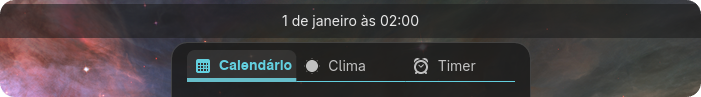
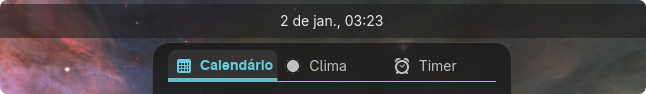
docs: update README for v0.1.1 architecture

diff --git a/README.md b/README.md
@@ -1,5 +1,3 @@
-# Time Plus - Cosmic Applet
-
 <p align="center">
   <picture>
     <source media="(prefers-color-scheme: dark)" srcset="com.system76.CosmicAppletTimePlusDark.svg">
@@ -7,6 +5,8 @@
     <img src="com.system76.CosmicAppletTimePlusLight.svg" alt="Time Plus Logo" width="120">
   </picture>
 </p>
+
+# Time Plus - Cosmic Applet
 
 **A feature-rich time applet for [COSMIC Desktop](https://github.com/pop-os/cosmic-epoch)** that extends the default time/date/calendar functionality with integrated weather information and pomodoro timer.
 
@@ -23,7 +23,7 @@
 
 ## 📸 Screenshots
 
-*All screenshots captured from **v0.1.0** running on COSMIC Desktop (Fedora Linux 43)*
+*All screenshots captured from **v0.1.1** running on COSMIC Desktop (Fedora Linux 43)*
 
 <details>
 <summary>🔲 Tab Navigation System</summary>
@@ -140,29 +140,47 @@ Located at the absolute top of the container.
 
 ## 🏗 Software Architecture
 
-### Central Orchestrator Pattern
+### Neutral Messenger + Orchestrator Pattern
 
-Time Plus follows a clean **Orchestrator + Specialist Modules** architecture:
+Time Plus follows a clean **Neutral Messenger + Orchestrator + Specialist Modules** architecture introduced in v0.1.1:
 
 ```
+┌─────────────────────────────────────────────┐
+│         lib.rs (Neutral Messenger)          │
+│  • Global Message enum (no dependencies)    │
+│  • Tab enum shared across modules           │
+│  • Prevents circular dependencies           │
+└─────────────────────────────────────────────┘
+                     │
+                     ▼
 ┌─────────────────────────────────────────────┐
 │           window.rs (Orchestrator)          │
 │  • Manages popup window lifecycle           │
 │  • Handles tab navigation system            │
 │  • Delegates to specialist modules          │
-│  • NO business logic                        │
+│  • NO business logic (369 lines)            │
 └─────────────────────────────────────────────┘
-                    │
-        ┌───────────┼───────────┐
-        ▼           ▼           ▼
-   ┌────────┐  ┌────────┐  ┌────────┐
-   │ time.rs│  │weather │  │ timer  │
-   │        │  │  .rs   │  │  .rs   │
-   │ State  │  │ State  │  │ State  │
-   │ Message│  │ Message│  │ Message│
-   │ update │  │ update │  │ update │
-   │ view   │  │ view   │  │ view   │
-   └────────┘  └────────┘  └────────┘
+                     │
+         ┌───────────┼───────────┬──────────────┐
+         ▼           ▼           ▼              ▼
+    ┌──────────┐ ┌────────┐ ┌────────┐  ┌──────────────┐
+    │calendar  │ │weather │ │ timer  │  │subscriptions │
+    │  .rs     │ │  .rs   │ │  .rs   │  │    .rs       │
+    │          │ │        │ │        │  │              │
+    │ State    │ │ State  │ │ State  │  │ Time tick    │
+    │ Message  │ │ Message│ │ Message│  │ Timezone     │
+    │ update   │ │ update │ │ update │  │ Wake-sleep   │
+    │ view     │ │ view   │ │ view   │  │              │
+    └──────────┘ └────────┘ └────────┘  └──────────────┘
+         │
+         ▼
+    ┌──────────┐
+    │  time.rs │
+    │          │
+    │ Panel    │
+    │ Formatter│
+    │          │
+    └──────────┘
 ```
 
 ### Message Envelope Pattern
@@ -170,15 +188,15 @@ Time Plus follows a clean **Orchestrator + Specialist Modules** architecture:
 Each module has its own **isolated message system**:
 
 ```rust
-// Global message envelope in window.rs
+// Global message envelope in lib.rs (Neutral Messenger)
 pub enum Message {
-    Calendar(time::CalendarMessage),  // Envelope for calendar
-    Weather(weather::WeatherMessage), // Envelope for weather
-    Timer(timer::TimerMessage),       // Envelope for timer
+    Calendar(calendar::CalendarMessage),  // Envelope for calendar
+    Weather(weather::WeatherMessage),     // Envelope for weather
+    Timer(timer::TimerMessage),           // Envelope for timer
     // ... only orchestration messages
 }
 
-// Module-specific messages in time.rs
+// Module-specific messages in calendar.rs
 pub enum CalendarMessage {
     SelectDay(u32),
     PreviousMonth,
@@ -198,6 +216,7 @@ impl CalendarState {
 - ✅ **Maintainability**: Changes to one module don't affect others
 - ✅ **Testability**: Modules can be tested independently
 - ✅ **Scalability**: Easy to add new modules
+- ✅ **No Circular Dependencies**: Neutral Messenger breaks dependency cycles
 
 ### Design Principles
 
@@ -222,17 +241,23 @@ let tabs = custom_tab_widget();
 
 #### 🧩 Separation of Concerns
 
+- **lib.rs**: Neutral message envelope (no dependencies)
 - **window.rs**: Window management + tab orchestration ONLY
 - **Modules**: Complete ownership of their domain (state + logic + view)
+- **subscriptions.rs**: Heavy async logic (time, timezone, wake-from-sleep)
+- **time.rs**: Panel time formatting (PanelFormatter)
 - **No cross-module dependencies**: Modules never import each other
 
 #### 📦 Single Responsibility
 
 Each file has ONE clear purpose:
-- `window.rs` → Popup window orchestration
-- `time.rs` → Calendar functionality
+- `lib.rs` → Neutral Messenger (Message + Tab enums)
+- `window.rs` → Popup window orchestration (369 lines, -48% from v0.1.0)
+- `calendar.rs` → Calendar functionality (state + view + logic)
+- `time.rs` → Panel time formatting (PanelFormatter)
+- `subscriptions.rs` → Subscription management (time tick, timezone, wake-from-sleep)
 - `config.rs` → Configuration management
-- `localize.rs` → Internationalization
+- `localize.rs` → Internationalization + system locale detection
 
 ---
 
@@ -355,29 +380,34 @@ This optimization reduces development cycle time by **~60%** on subsequent build
 ```
 cosmic-applet-timeplus/
 ├── src/
-│   ├── main.rs       # Entry point
-│   ├── lib.rs        # Module declarations
-│   ├── window.rs     # Main applet (tab orchestration)
-│   ├── config.rs     # Configuration structs
-│   ├── localize.rs   # i18n system
-│   ├── time.rs       # Calendar module (view + logic)
-│   ├── weather.rs    # Weather module (placeholder)
-│   └── timer.rs      # Timer module (placeholder)
-├── i18n/             # Translations (61 languages)
+│   ├── main.rs          # Entry point
+│   ├── lib.rs           # Neutral Messenger (Message + Tab enums)
+│   ├── window.rs        # Orchestrator (369 lines, -48% from v0.1.0)
+│   ├── config.rs        # Configuration structs
+│   ├── localize.rs      # i18n system + system locale detection
+│   ├── calendar.rs      # Calendar module (view + logic + state)
+│   ├── time.rs          # Panel time formatting (PanelFormatter)
+│   ├── subscriptions.rs # Subscription management (time, timezone, wake)
+│   ├── weather.rs       # Weather module (placeholder)
+│   └── timer.rs         # Timer module (placeholder)
+├── i18n/                # Translations (61 languages)
 │   └── */cosmic_applet_timeplus.ftl
-├── screenshots/      # UI screenshots
+├── screenshots/         # UI screenshots
 │   ├── calendar.png
 │   ├── weather.png
 │   └── timer.png
-├── data/             # Desktop files
-├── dev.sh            # Development helper script
-├── create_i18n.sh    # i18n file generator
-└── TRANSLATIONS.md   # Translation status
+├── data/                # Desktop files
+├── dev.sh               # Development helper script
+├── create_i18n.sh       # i18n file generator
+└── TRANSLATIONS.md      # Translation status
 ```
 
-**Key Architectural Decisions:**
-- **Modular Design**: Each tab has its own module (`time.rs`, `weather.rs`, `timer.rs`)
-- **Separation of Concerns**: `window.rs` orchestrates, modules implement
+**Key Architectural Decisions (v0.1.1):**
+- **Neutral Messenger Pattern**: `lib.rs` breaks circular dependencies
+- **Modular Design**: Each tab has its own module (`calendar.rs`, `weather.rs`, `timer.rs`)
+- **Separation of Concerns**: `window.rs` orchestrates (369 lines), modules implement
+- **Subscription Isolation**: Heavy async logic in dedicated `subscriptions.rs` (166 lines)
+- **Panel Formatting**: Dedicated `time.rs` with `PanelFormatter` (222 lines)
 - **No Code Duplication**: Uses `cosmic::applet::padded_control` and standard patterns
 - **Consistent Structure**: All placeholders match calendar's header + content layout
 
@@ -446,15 +476,19 @@ nano i18n/{language}/cosmic_applet_timeplus.ftl
 - [x] Follow official cosmic-applet-time patterns
 - [x] Zero warnings compilation
 
-### Phase 3: Infrastructure Refactoring 📍 *NEXT*
-- [ ] **Rename** `time.rs` → `calendar.rs` (better semantic clarity)
-- [ ] **Move** `Message` and `Tab` enums from `window.rs` to `lib.rs` (Neutral Messenger)
-- [ ] **Move** `get_system_locale()` from `window.rs` to `localize.rs`
-- [ ] **Clean** legacy notification/test artifacts from `window.rs`
-- [ ] **Centralize** panel logic in calendar module
-- [ ] Apply same modularization pattern to Weather and Timer
+### Phase 3: Infrastructure Refactoring ✅ *v0.1.1*
+- [x] **Rename** `time.rs` → `calendar.rs` (better semantic clarity)
+- [x] **Move** `Message` and `Tab` enums from `window.rs` to `lib.rs` (Neutral Messenger)
+- [x] **Move** `get_system_locale()` from `window.rs` to `localize.rs`
+- [x] **Create** `subscriptions.rs` for heavy async logic (time, timezone, wake-from-sleep)
+- [x] **Create** `time.rs` for panel formatting (`PanelFormatter`)
+- [x] **Reduce** `window.rs` from 704 to 369 lines (-48%)
+- [x] **Fix** APP_ID to use `com.system76.CosmicAppletTime` for config sync
+- [x] **Fix** HourCycle configuration for military_time
+- [x] **Fix** Real-time configuration updates (show_seconds, military_time)
+- [x] **Optimize** Date format to use `MDT::medium` for better space usage
 
-### Phase 4: Weather Module 🌤
+### Phase 4: Weather Module 🌤 *NEXT*
 - [ ] OpenWeatherMap API integration
 - [ ] Location configuration
 - [ ] Weather display in popup
